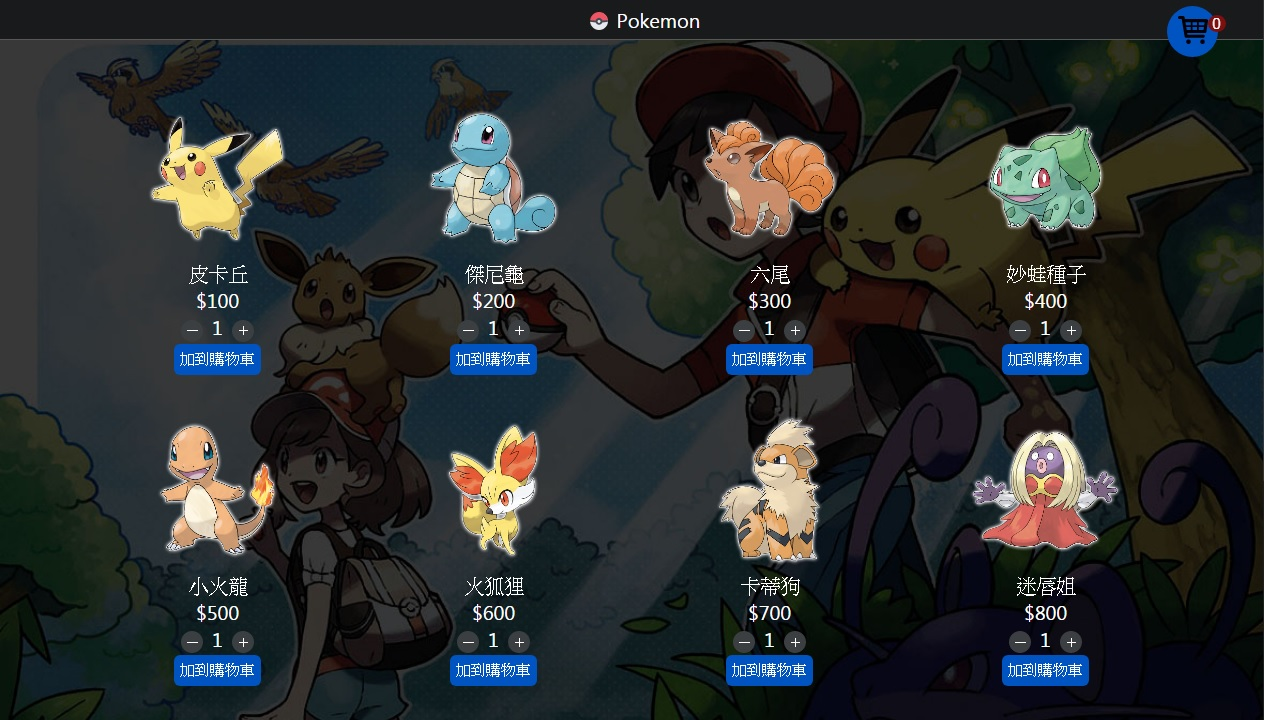
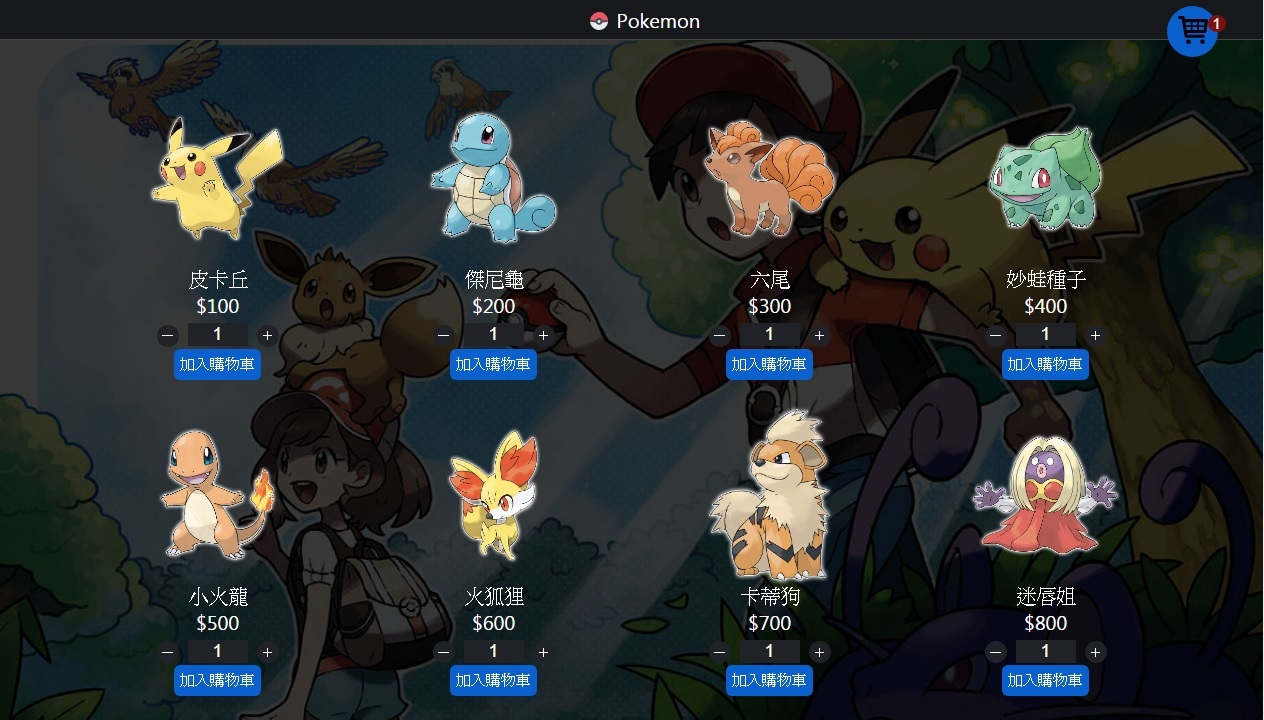
更新README.md

diff --git a/src/Pokemon.scss b/src/Pokemon.scss
@@ -1,7 +1,7 @@
-$dark:#17181c;
-$gray:#202227;
+$dark: #17181c;
+$gray: #202227;
 $blue: #0a60cf;
-$green:chartreuse;
+$green: chartreuse;
 
 body {
   background-color: $dark;
@@ -67,6 +67,7 @@ p {
     margin: auto;
     width: 159px;
     height: 159px;
+    cursor: zoom-in;
     &:hover {
       transform: scale(1.2);
     }
@@ -93,6 +94,9 @@ p {
     cursor: pointer;
     padding: 6px;
     font-size: 15px;
+    &:hover {
+      filter: brightness(110%);
+    }
   }
   &-added {
     position: fixed;
@@ -163,7 +167,7 @@ p {
     overflow: auto;
     justify-content: center;
   }
-  &-link__button{
+  &-link__button {
     width: 210px;
     padding: 3px 6px;
     background-color: $blue;
@@ -171,6 +175,9 @@ p {
     cursor: pointer;
     color: white;
     font-size: 18px;
+    &:hover {
+      filter: brightness(110%);
+    }
   }
   &--empty {
     margin: 9px 0;
@@ -300,7 +307,7 @@ p {
       max-width: 180px;
       width: 100%;
       text-align: center;
-      &-button{
+      &-button {
         color: white;
         text-decoration: none;
         font-size: 21px;
@@ -308,8 +315,8 @@ p {
         outline: none;
         background-color: rgb(41, 41, 41);
         margin-left: 9px;
-        &:hover{
-            color: rgb(255, 51, 51);
+        &:hover {
+          color: rgb(255, 51, 51);
         }
       }
     }
@@ -354,7 +361,7 @@ p {
       font-size: 21px;
       margin-top: 18px;
       &:hover {
-        filter: brightness(90%);
+        filter: brightness(110%);
       }
     }
   }
@@ -377,7 +384,7 @@ p {
   outline: none;
   cursor: pointer;
   &:hover {
-    filter: brightness(90%);
+    filter: brightness(110%);
   }
 }
 .popup {
@@ -420,15 +427,32 @@ p {
         background-color: $blue;
         color: white;
       }
-      &-cancle{
+      &-cancle {
         outline: none;
         cursor: pointer;
         width: 50%;
         font-size: 18px;
         padding: 9px 18px;
         background-color: $dark;
-  color: white
+        color: white;
       }
     }
+  }
+}
+@media (max-width: 500px) {
+  .cart-drawer-content {
+    width: 240px;
+  }
+  .cart-item-name {
+    width: 90px;
+  }
+  .cart-drawer-empty-image {
+    width: 210px;
+  }
+  .cart-page {
+    margin: 0;
+  }
+  .checkout__button {
+    margin: 0;
   }
 }

diff --git a/src/components/Header.jsx b/src/components/Header.jsx
@@ -4,6 +4,11 @@ import { Link } from "react-router-dom";
 
 class Header extends Component {
   state = { showCart: false };
+  handleCart = () =>{
+    this.setState({
+      showCart:!this.state.showCart
+    })
+  }
   handleCartOpen = () => {
     this.setState({
       showCart: true
@@ -32,10 +37,10 @@ class Header extends Component {
         </div>
         <div
           className="cart-drawer"
+          onClick={this.handleCart}
           onMouseEnter={this.handleCartOpen}
           onMouseLeave={this.handleCartClose}
         >
-          <Link to="/checkout">
             <button className="cart-drawer-button">
               <img
                 src="https://image.flaticon.com/icons/svg/2/2772.svg"
@@ -45,7 +50,6 @@ class Header extends Component {
 
               <span className="cart-drawer-badge">{cart.length}</span>
             </button>
-          </Link>
         </div>
         {this.state.showCart ? (
           <div

diff --git a/README.md b/README.md
@@ -1,4 +1,3 @@
 # React-Shopping-Cart
 demo: https://v8661087.github.io/React-Shopping-Cart/
-<img src="src/images/React-Shopping-Cart.jpg" alt="React-Shopping-Cart"/>
 <img src="src/images/React-Shopping-Cart.gif" alt="React-Shopping-Cart"/>
